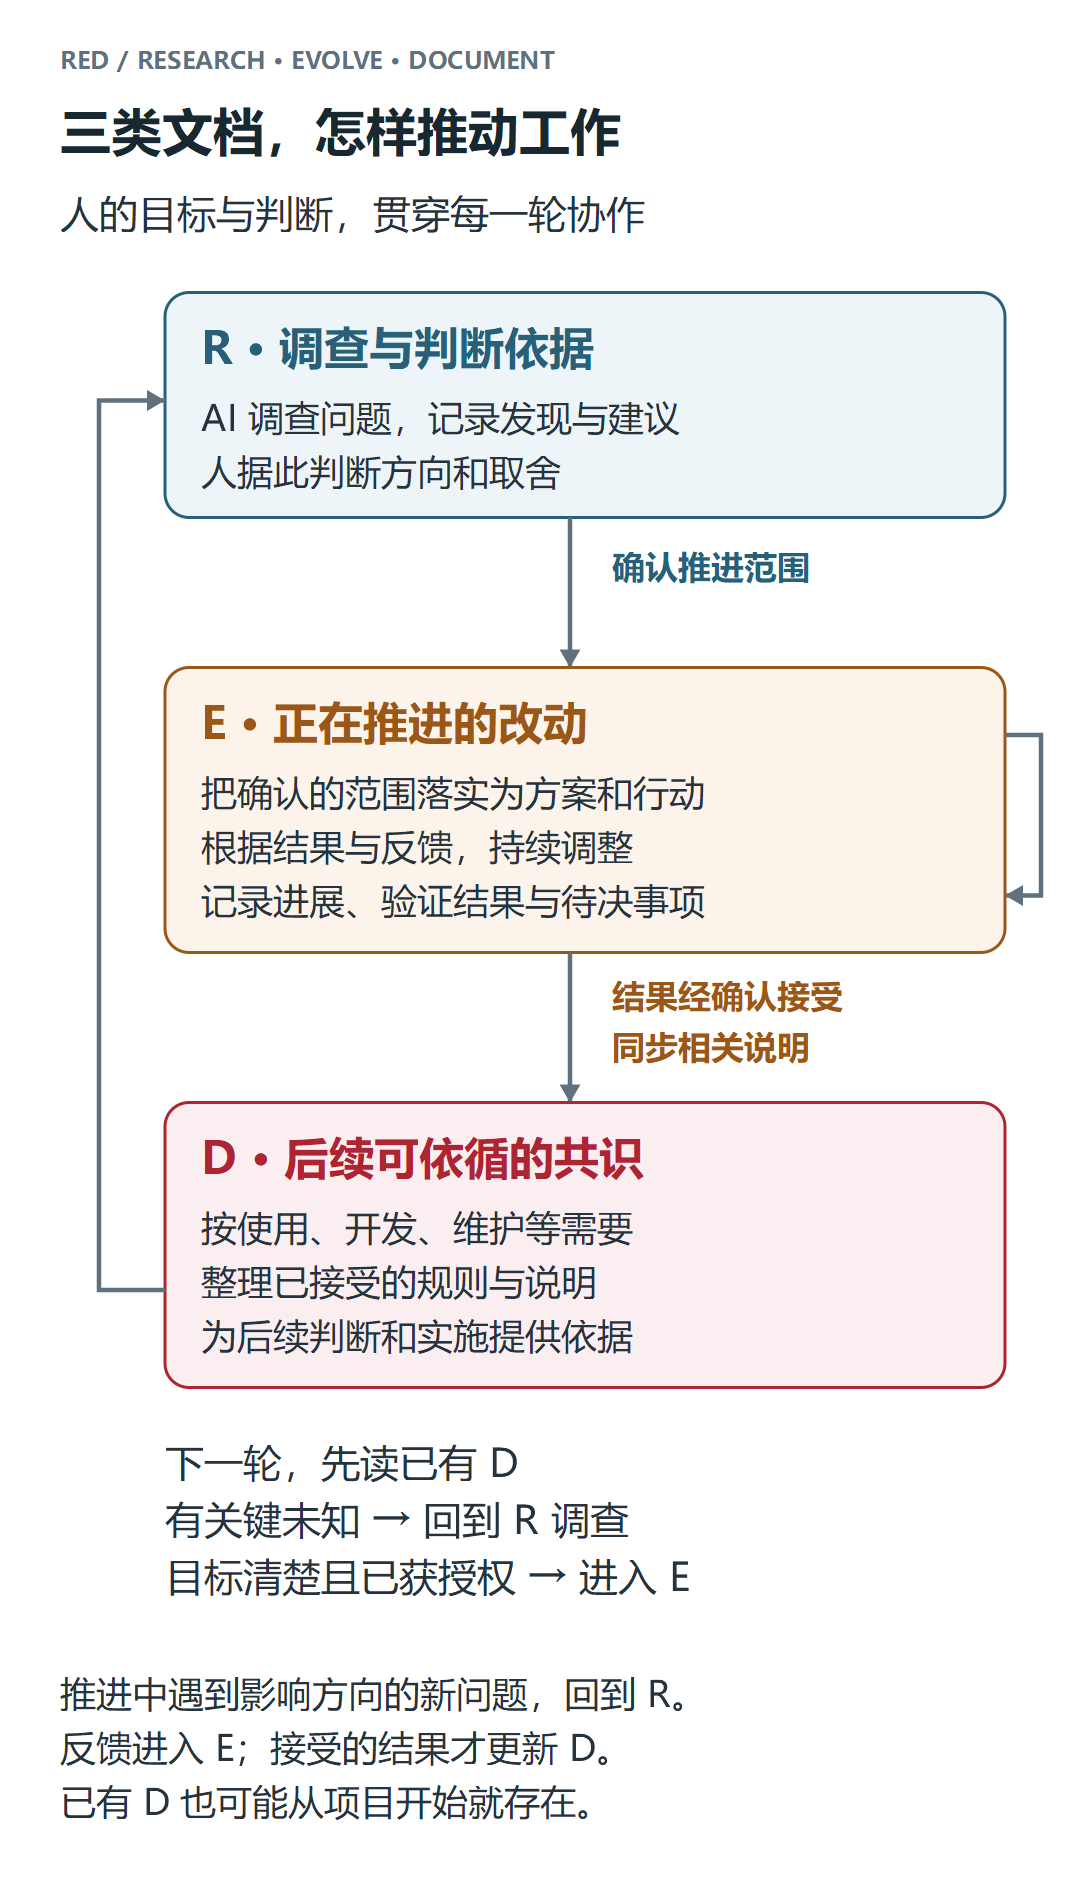
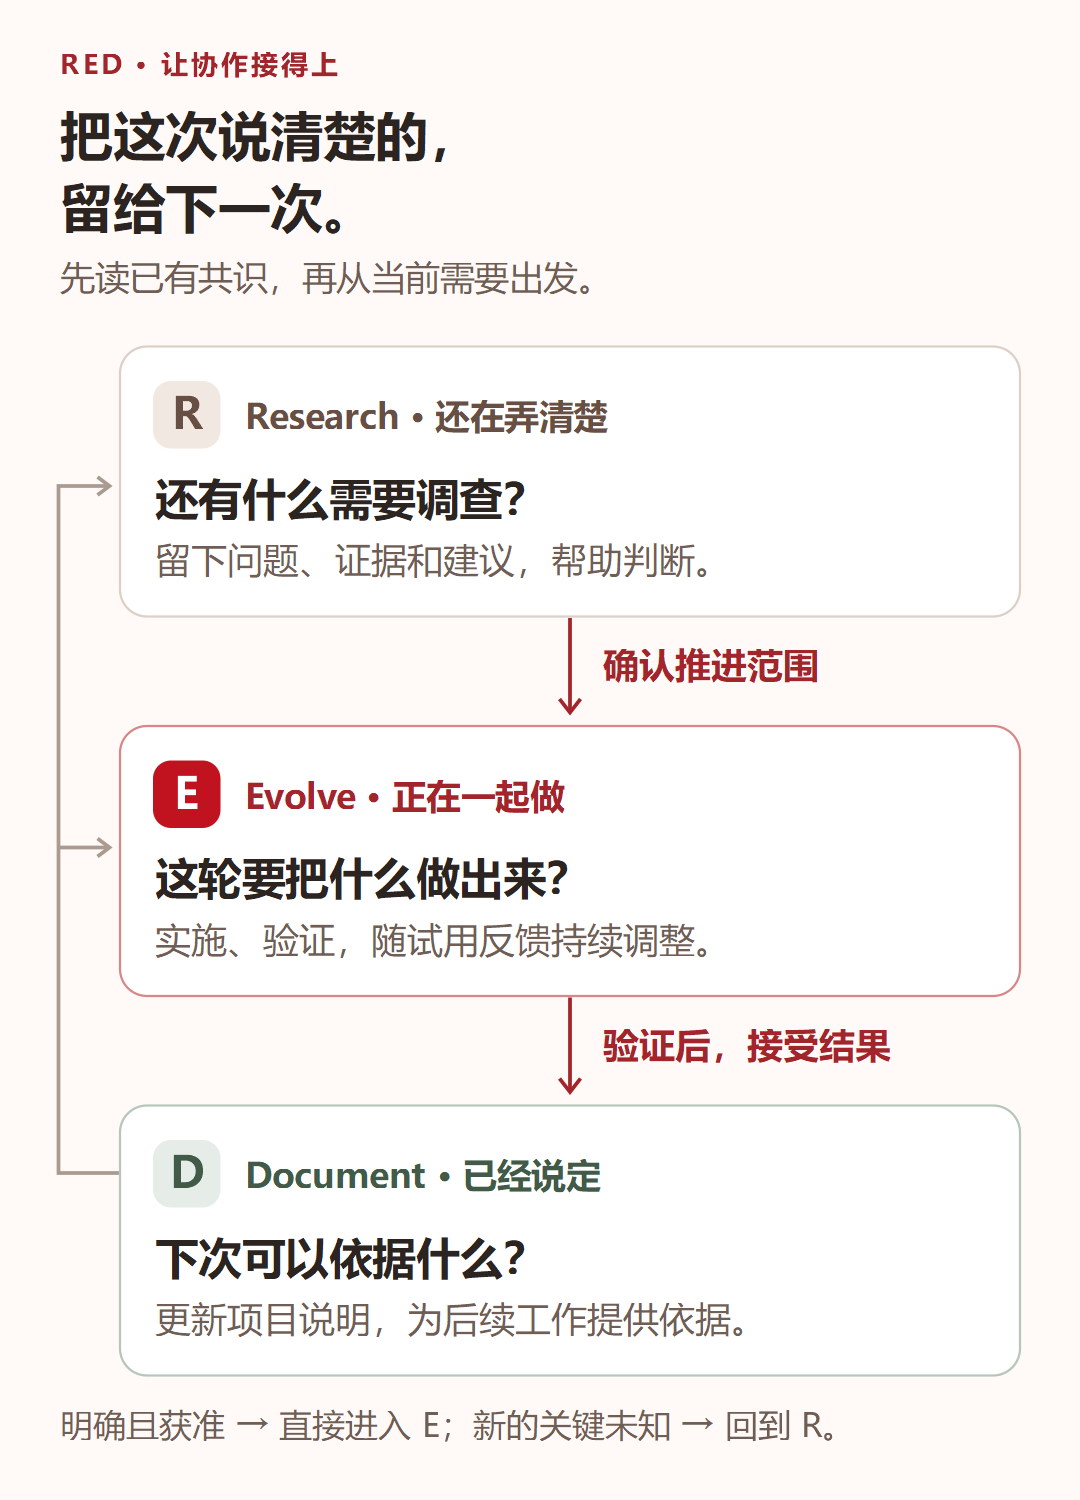
docs: refresh WeChat RED workflow figure

diff --git a/scripts/render_methodology_figures.py b/scripts/render_methodology_figures.py
@@ -170,27 +170,18 @@ def transitions(lang, font):
 
 
 def wechat_transitions(font):
-    title = "三类文档，怎样推动工作"
-    body = text(40, 152, ["人的目标与判断，贯穿每一轮协作"], 26)
-    body += box(110, 195, 560, 150, "R · 调查与判断依据",
-                ["AI 调查问题，记录发现与建议", "人据此判断方向和取舍"], 0, 24)
-    body += arrow([(380, 345), (380, 445)])
-    body += text(408, 386, ["确认推进范围"], 22, COLORS[0], True)
-    body += box(110, 445, 560, 190, "E · 正在推进的改动",
-                ["把确认的范围落实为方案和行动", "根据结果与反馈，持续调整", "记录进展、验证结果与待决事项"], 1, 24)
-    body += arrow([(670, 490), (694, 490), (694, 597), (670, 597)])
-    body += arrow([(380, 635), (380, 735)])
-    body += text(408, 672, ["结果经确认接受", "同步相关说明"], 22, COLORS[1], True)
-    body += box(110, 735, 560, 190, "D · 后续可依循的共识",
-                ["按使用、开发、维护等需要", "整理已接受的规则与说明", "为后续判断和实施提供依据"], 2, 24)
-    body += arrow([(110, 860), (66, 860), (66, 267), (110, 267)])
-    body += text(110, 985, ["下一轮，先读已有 D", "有关键未知 → 回到 R 调查", "目标清楚且已获授权 → 进入 E"], 26)
-    body += text(40, 1138, ["推进中遇到影响方向的新问题，回到 R。",
-                           "反馈进入 E；接受的结果才更新 D。",
-                           "已有 D 也可能从项目开始就存在。"], 24)
-    save("red-transitions.wechat", 720, 1260, title,
-         "R 的发现支持范围确认，E 在授权范围内实施并根据反馈调整，结果被接受后同步 D。D 为下一轮调查和改动提供依据；明确获准的改动可直接进入 E。",
-         body, font)
+    template = ROOT / "scripts" / "assets" / "red-transitions.wechat.svg"
+    svg = template.read_text(encoding="utf-8").replace(
+        "Microsoft YaHei, Segoe UI, sans-serif",
+        escape(font, quote=True) + ", Segoe UI, sans-serif",
+    )
+    path = OUT / "red-transitions.wechat.svg"
+    path.write_text(svg, encoding="utf-8")
+    subprocess.run([
+        "magick", "-background", "#fffaf7", str(path),
+        "-alpha", "remove", "-alpha", "off", str(path.with_suffix(".png")),
+    ], check=True)
+    print(path.relative_to(ROOT))
 
 
 def main():

diff --git a/methodology/assets/README.md b/methodology/assets/README.md
@@ -12,19 +12,19 @@ Each name has an SVG and a PNG file. SVG provides scalable text and geometry; PN
 
 ## Editing and export
 
-Edit the drawing content in [render_methodology_figures.py](../../scripts/render_methodology_figures.py), then regenerate both formats from the repository root:
+Edit the public-account transitions drawing in [red-transitions.wechat.svg](../../scripts/assets/red-transitions.wechat.svg); edit the other drawings in [render_methodology_figures.py](../../scripts/render_methodology_figures.py). Regenerate both formats from the repository root:
 
 ```sh
 python scripts/render_methodology_figures.py
 ```
 
-The script uses Python's standard library to author explicit SVG elements and the installed ImageMagick SVG renderer to export PNGs at 144 DPI (1.5 times the SVG pixel dimensions). It requires `magick` on PATH and Microsoft YaHei for Chinese and Latin labels. An alternative installed font can be selected with `--font "Font Name"`; inspect wrapping and text fit after changing it. The SVG viewer also needs a suitable font; the exported PNG preserves the rendered text independently of the reader's fonts.
+The script uses Python's standard library to author explicit SVG elements and the installed ImageMagick SVG renderer to export PNGs at 144 DPI (1.5 times the SVG pixel dimensions) for the generated drawings. The public-account transitions template exports at its native 1080 × 1500 dimensions. It requires `magick` on PATH and Microsoft YaHei for Chinese and Latin labels. An alternative installed font can be selected with `--font "Font Name"`; inspect wrapping and text fit after changing it. The SVG viewer also needs a suitable font; the exported PNG preserves the rendered text independently of the reader's fonts.
 
 Keep labels and layout synchronized between the two formal-paper languages. Check arrows against Protocol 1, and visually inspect the exported images after editing. R, E, and D have textual labels as well as distinct colors. Arrowheads are explicit geometry, and the SVGs contain titles and descriptions.
 
 ## Preparing the public-account article
 
-Use `red-states.wechat.png` at full article width. It is 1080 pixels wide and arranged vertically for phone reading. Upload it through the publishing editor at the image position in the article. `red-transitions.wechat.png` follows the paragraph explaining how the documents drive the next action; it is also 1080 pixels wide. The optional `red-example.wechat.png` has the same width. Preview the finished article on a phone, since the editor may resize images or change spacing.
+Use `red-states.wechat.png` at full article width. It is 1080 pixels wide and arranged vertically for phone reading. Upload it through the publishing editor at the image position in the article. `red-transitions.wechat.png` follows the paragraph explaining how the documents drive the next action; it is 1080 × 1500 pixels, with vertically arranged question-led cards and two highlighted decision checkpoints. The optional `red-example.wechat.png` has the same width. Preview the finished article on a phone, since the editor may resize images or change spacing.
 
 The public-account draft uses absolute HTTPS URLs for all reader-facing links. Its full-article link points to the Chinese methodology article at `https://blog.e10t.net/red/`, with an English language switch. Before publishing, deploy the reviewed website and check that the desired revision is available at that public URL; local branch edits do not update it. The project homepage link points to `https://github.com/exoticknight/red`.
 
